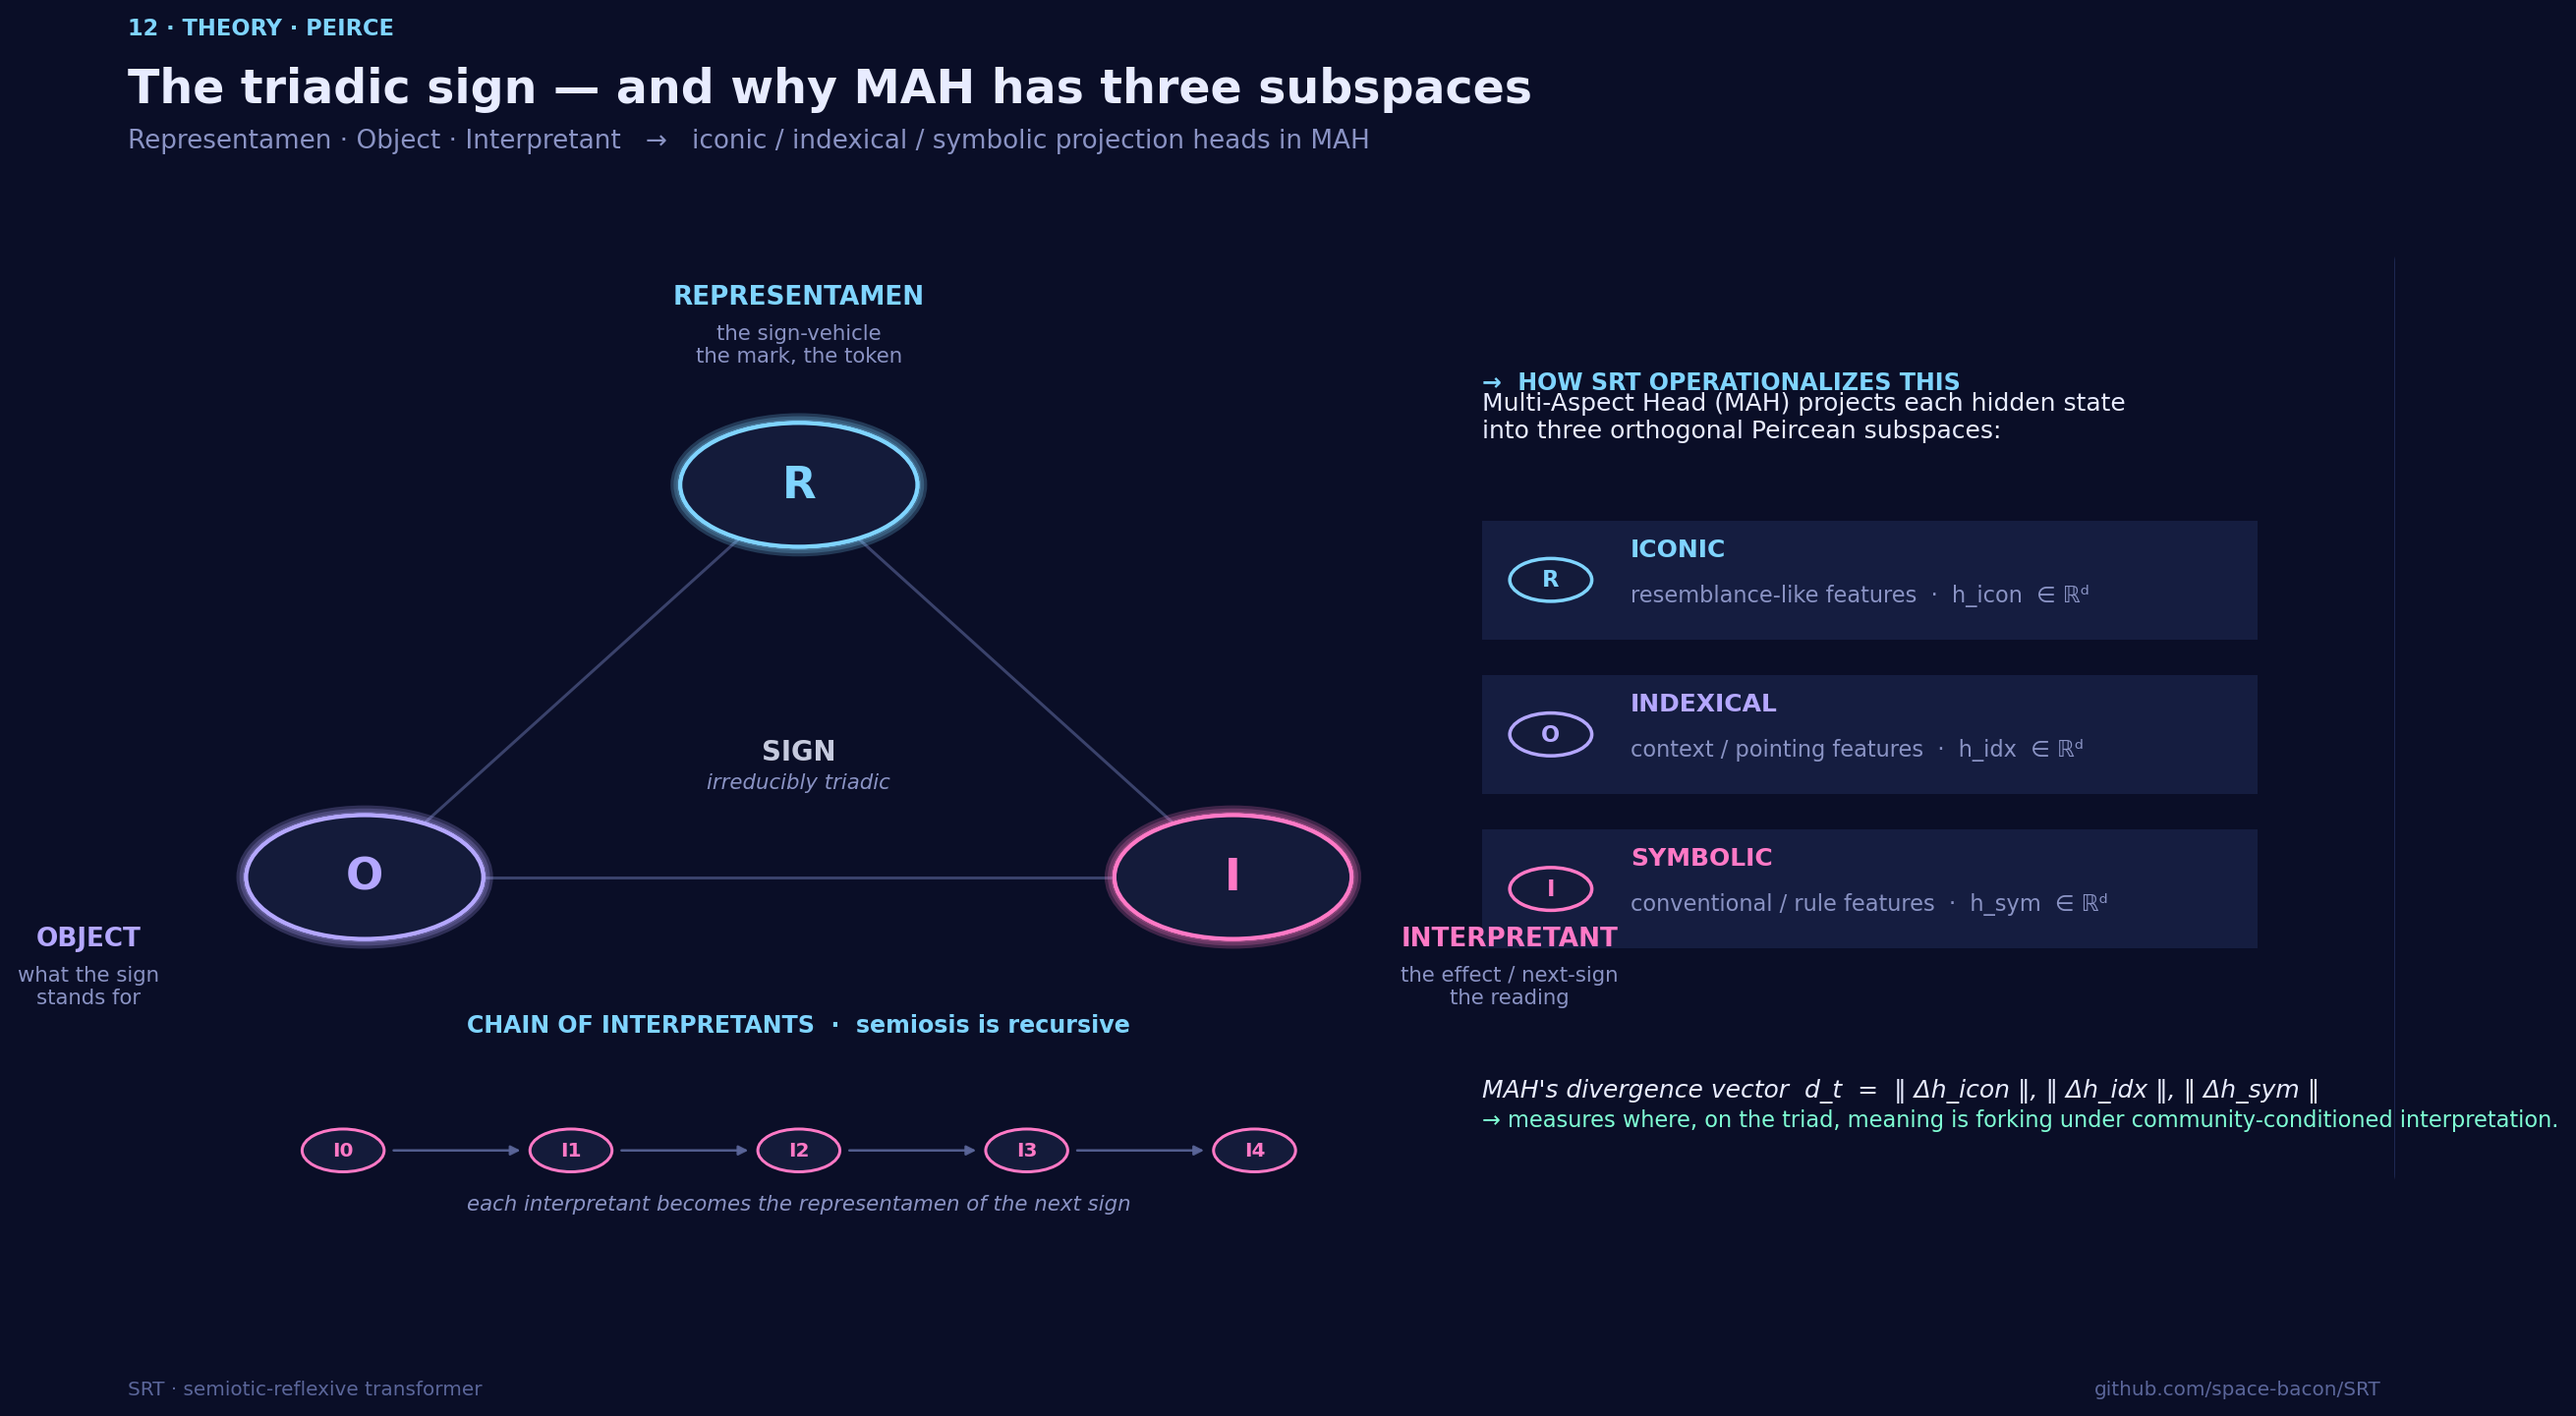
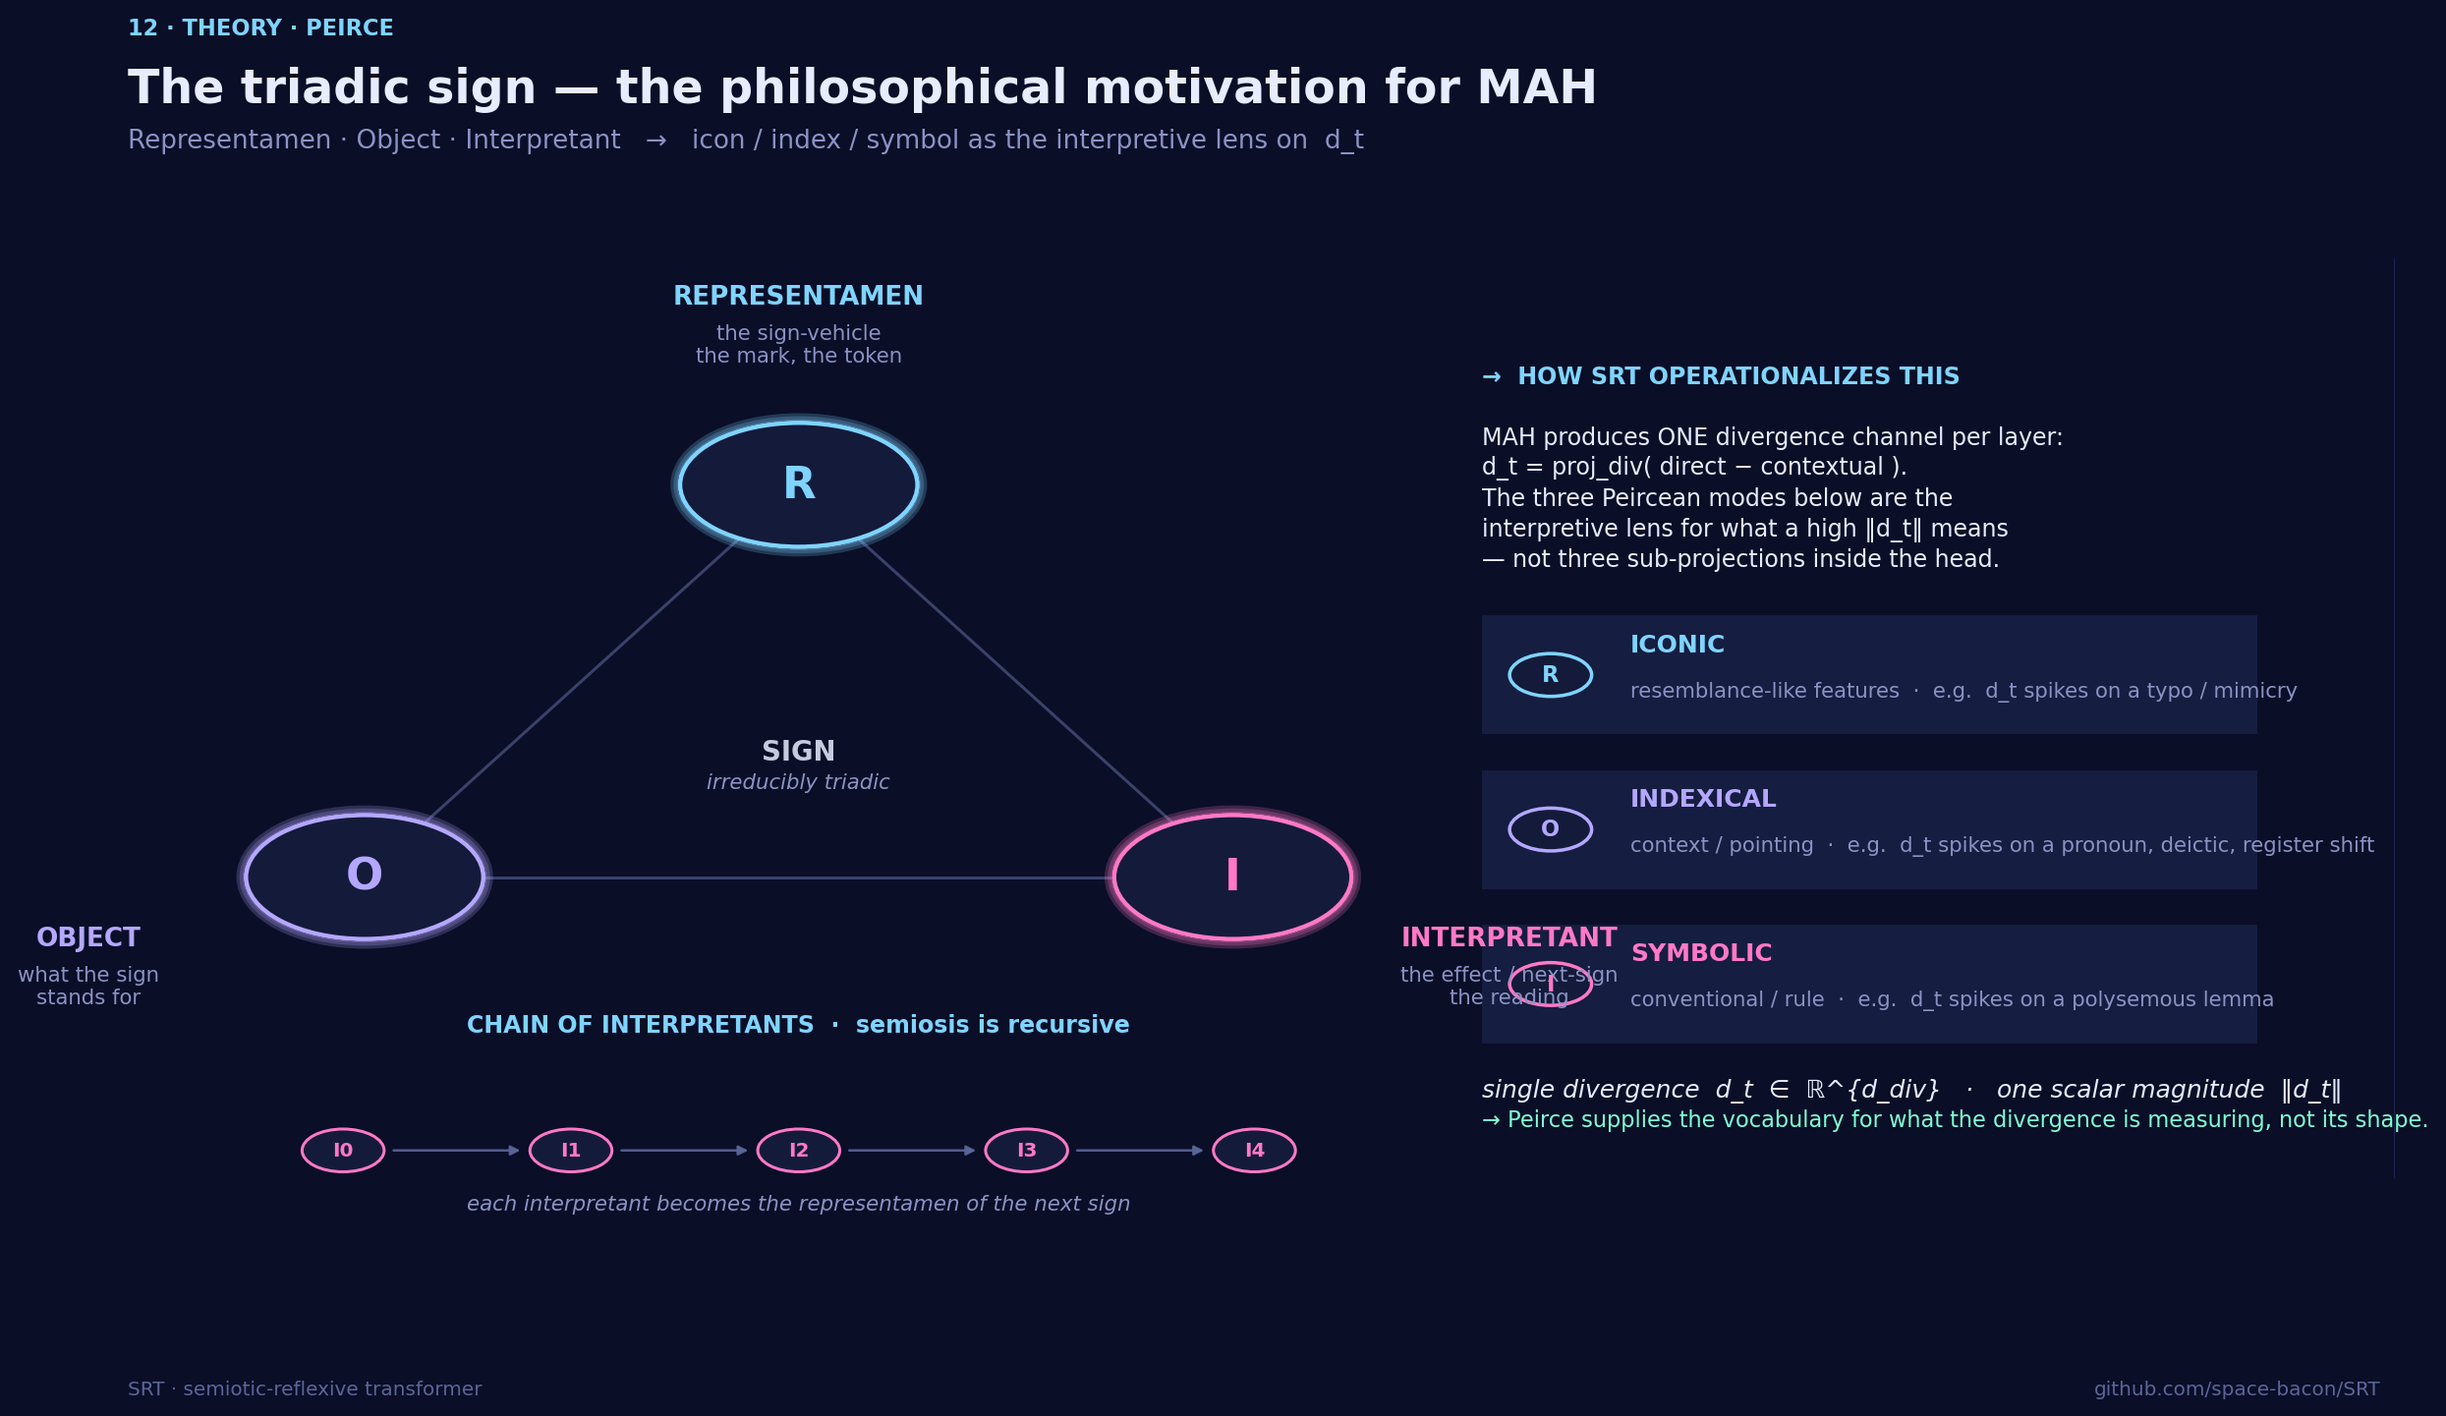
explainers: accuracy fixes — MAH has one divergence channel (not 3 subspaces); r=0.884 is Supabase 5 communities (not Reddit 35); fix paper.md path

diff --git a/scripts/explainers/make_all.py b/scripts/explainers/make_all.py
@@ -1543,9 +1543,9 @@ def fig11_token_trace():
 def fig12_peirce_triad():
     fig = plt.figure(figsize=(14.0, 8.0))
     title_block(fig, "12 · theory · peirce",
-                "The triadic sign — and why MAH has three subspaces",
+                "The triadic sign — the philosophical motivation for MAH",
                 "Representamen · Object · Interpretant   →   "
-                "iconic / indexical / symbolic projection heads in MAH")
+                "icon / index / symbol as the interpretive lens on  d_t")
     ax = fig.add_axes([0.04, 0.06, 0.92, 0.84]); hidden_axes(ax)
 
     # --- Equilateral triangle of the sign ------------------------------------
@@ -1608,21 +1608,24 @@ def fig12_peirce_triad():
     # --- Right panel: mapping into MAH ---------------------------------------
     px, py, pw, ph = 0.58, 0.16, 0.38, 0.68
     add_panel_bg(fig, (px, py, pw, ph), radius=0.018)
-    ax.text(px + 0.02, py + ph - 0.04,
+    ax.text(px + 0.02, py + ph - 0.035,
             "→  HOW SRT OPERATIONALIZES THIS",
             color=CYAN, fontsize=9.5, weight="bold")
-    ax.text(px + 0.02, py + ph - 0.08,
-            "Multi-Aspect Head (MAH) projects each hidden state\n"
-            "into three orthogonal Peircean subspaces:",
-            color=TEXT, fontsize=10)
+    ax.text(px + 0.02, py + ph - 0.07,
+            "MAH produces ONE divergence channel per layer:\n"
+            "d_t = proj_div( direct − contextual ).\n"
+            "The three Peircean modes below are the\n"
+            "interpretive lens for what a high ‖d_t‖ means\n"
+            "— not three sub-projections inside the head.",
+            color=TEXT, fontsize=9.5, linespacing=1.35, va="top")
 
     rows = [
-        ("ICONIC",     "resemblance-like features  ·  h_icon  ∈ ℝᵈ",   CYAN,    "R"),
-        ("INDEXICAL",  "context / pointing features  ·  h_idx  ∈ ℝᵈ",  VIOLET,  "O"),
-        ("SYMBOLIC",   "conventional / rule features  ·  h_sym  ∈ ℝᵈ", MAGENTA, "I"),
+        ("ICONIC",     "resemblance-like features  ·  e.g.  d_t spikes on a typo / mimicry",   CYAN,    "R"),
+        ("INDEXICAL",  "context / pointing  ·  e.g.  d_t spikes on a pronoun, deictic, register shift",  VIOLET,  "O"),
+        ("SYMBOLIC",   "conventional / rule  ·  e.g.  d_t spikes on a polysemous lemma",       MAGENTA, "I"),
     ]
     for i, (name, body, col, vert) in enumerate(rows):
-        ry = py + ph - 0.20 - i * 0.13
+        ry = py + ph - 0.28 - i * 0.13
         ax.add_patch(Rectangle((px + 0.02, ry - 0.05), pw - 0.04, 0.10,
                                fc=PANEL_EDGE, ec="none", alpha=0.55))
         # vertex chip
@@ -1631,14 +1634,14 @@ def fig12_peirce_triad():
                 fontsize=9, weight="bold")
         ax.text(px + 0.085, ry + 0.020, name, color=col,
                 fontsize=10, weight="bold")
-        ax.text(px + 0.085, ry - 0.018, body, color=MUTED, fontsize=9)
+        ax.text(px + 0.085, ry - 0.018, body, color=MUTED, fontsize=8.5)
 
     ax.text(px + 0.02, py + 0.045,
-            "MAH's divergence vector  d_t  =  ‖ Δh_icon ‖, ‖ Δh_idx ‖, ‖ Δh_sym ‖",
+            "single divergence  d_t  ∈  ℝ^{d_div}   ·   one scalar magnitude  ‖d_t‖",
             color=TEXT, fontsize=10, style="italic")
     ax.text(px + 0.02, py + 0.020,
-            "→ measures where, on the triad, meaning is forking under "
-            "community-conditioned interpretation.",
+            "→ Peirce supplies the vocabulary for what the divergence "
+            "is measuring, not its shape.",
             color=MINT, fontsize=9)
 
     footer(fig)
@@ -1703,7 +1706,7 @@ def fig13_silverstein_orders():
             color=CYAN, fontsize=9.5, weight="bold")
 
     rows = [
-        ("1st", CYAN,   "MAH  ·  indexical subspace",
+        ("1st", CYAN,   "MAH  ·  divergence channel  d_t",
          "raw co-occurrence with context window"),
         ("2nd", VIOLET, "RRM  ·  GRU meta-state h_meta",
          "running record of where reads have diverged\n"
@@ -1932,8 +1935,9 @@ def fig15_lancaster_pitchfork():
             color=MUTED, fontsize=9.5, linespacing=1.45, va="top")
 
     ax.text(0.04, 0.06,
-            "On Reddit (35 communities), Pearson r = 0.884\n"
-            "between r̂ and an external polarization metric.",
+            "Stage-2 (Supabase news, 5 communities):\n"
+            "Pearson r = 0.884  between r̂  and an\n"
+            "external polarization metric.",
             color=MINT, fontsize=9, style="italic",
             linespacing=1.5, va="top")
 

diff --git a/docs/EXPLAINERS.md b/docs/EXPLAINERS.md
@@ -394,11 +394,11 @@ made explicit in each figure's right-hand panel.
 
 ![peirce triad](../artifacts/explainers/12_peirce_triad.png)
 
-*A sign is irreducibly three things at once: a representamen (the mark), an object (what it stands for), and an interpretant (the reading it produces). Every interpretant becomes the representamen of the next sign — semiosis is recursive. MAH's three orthogonal projection heads are the operational image of this triad.*
+*A sign is irreducibly three things at once: a representamen (the mark), an object (what it stands for), and an interpretant (the reading it produces). Every interpretant becomes the representamen of the next sign — semiosis is recursive. MAH's divergence channel is the operational image of the representamen → interpretant relation; the three Peircean modes (icon / index / symbol) are the *interpretive lens* through which `d_t` is read, not three separate projections in the code.*
 
-**Caption.** Charles Sanders Peirce's triadic sign (CP 2.228) is the philosophical reason MAH is not a single head but three. Each transformer hidden state is projected into an **iconic** (`h_icon`), **indexical** (`h_idx`), and **symbolic** (`h_sym`) subspace; the divergence vector `d_t` is the per-axis gap between a token's direct and contextual reading, so it tells you *on which Peircean axis* meaning is forking. The chain-of-interpretants strip at the bottom is the recursive structure RRM accumulates.
+**Caption.** Charles Sanders Peirce's triadic sign (CP 2.228) is the philosophical motivation behind MAH. Each MAH layer projects the backbone hidden state into a single interpretant subspace (`interp_proj`), attends causally over the past to obtain a contextual reading, and outputs the **divergence vector** `d_t = proj_div(direct − contextual)` — the gap between how the token reads in isolation and how it reads in context. This is Peirce's interpretant made computational: a sign is read in light of another sign. The chain-of-interpretants strip at the bottom is the recursive structure RRM accumulates by integrating successive `d_t` through its GRU. The icon / index / symbol distinction shown on the figure is the interpretive frame for *what kind of divergence* a high ‖d_t‖ represents at a given token — it is not a three-headed split inside MAH.
 
-**Read this when:** you want to know why "divergence" is a 3-vector rather than a scalar.
+**Read this when:** you want to know why divergence is defined as a gap rather than an activation magnitude.
 
 **Skip if:** you only care about the engineering interface to MAH (`srt/modules/mah.py`).
 
@@ -412,7 +412,7 @@ made explicit in each figure's right-hand panel.
 
 *A 1st-order index is mere co-occurrence (this word tends to show up in that context). A 2nd-order index is the noticing of that co-occurrence ("people who say X are signalling Y"). A 3rd-order index is enregistered ideology built on top. RRM is, by design, the 2nd-order channel.*
 
-**Caption.** Michael Silverstein's indexical-order framework (Silverstein 2003) names three distinct things current LLMs collapse into one. SRT separates them: MAH's indexical subspace handles 1st-order (raw co-occurrence); the RRM's GRU meta-state is the 2nd-order channel — it *notices that signs are being read differently* and writes that back as a correction; the community head plus BEN's `r̂` handles 3rd-order enregistered structure across discourse communities. The mint "reflexive ascent" arrows on the figure are the only direction information flows: lower-order can feed higher-order, not vice versa.
+**Caption.** Michael Silverstein's indexical-order framework (Silverstein 2003) names three distinct things current LLMs collapse into one. SRT separates them across modules (not across MAH sub-heads): MAH's divergence channel exposes 1st-order structure (where a sign's contextual reading drifts from its direct reading — the trace of raw co-occurrence); the RRM's GRU meta-state is the 2nd-order channel — it *notices that signs are being read differently over time* and writes that noticing back into the backbone as a FiLM correction; the community head plus BEN's `r̂` exposes 3rd-order enregistered structure across discourse communities. The mint "reflexive ascent" arrows on the figure are the only direction information flows: lower-order can feed higher-order, not vice versa.
 
 **Read this when:** you want to know what "reflexive" in *Semiotic-Reflexive Transformer* technically means.
 
@@ -444,7 +444,7 @@ made explicit in each figure's right-hand panel.
 
 *Under low community-polarization pressure (μ < 0) a sign has one stable reading. Past a critical μ_c the symmetric solution loses stability and two new attractors appear — the same sign now carries two incompatible meanings simultaneously. BEN's `r̂` is the order parameter of exactly this bifurcation.*
 
-**Caption.** This is the dynamical-systems backbone of the whole program. Lancaster (2025), *The Treachery of Signs: Semiotic Mediation, Pitchfork Bifurcations …* (SSRN 5987495) models discourse-community polarization as a supercritical pitchfork in the normal form `ẋ = μx − x³`. BEN does not learn an arbitrary scalar; it regresses the **signed distance from μ_c** of each token's local discourse, and a binary classifier names the regime. On Reddit (35 communities) this gives Pearson r = 0.884 against an external polarization metric — see [paper.md](../paper.md) for the validation receipts.
+**Caption.** This is the dynamical-systems backbone of the whole program. Lancaster (2025), *The Treachery of Signs: Semiotic Mediation, Pitchfork Bifurcations …* (SSRN 5987495) models discourse-community polarization as a supercritical pitchfork in the normal form `ẋ = μx − x³`. BEN does not learn an arbitrary scalar; it regresses the **signed distance from μ_c** of each token's local discourse and a binary classifier names the regime. The Stage-2 validation of this mapping (Lancaster 2026a) was measured on the Supabase political-news corpus spanning **five political communities (19K articles, 141K Peircean sign annotations), Pearson r = 0.884** against an external polarization metric. The current v8a checkpoint is trained on a different corpus (Reddit, 35 discourse communities); on that corpus the per-passage `r̂` probe is null and the contestedness signal has migrated into the community channel (see [arxiv/paper.md](../arxiv/paper.md) §6.5).
 
 **Read this when:** you want to know what BEN's outputs *mean* in the world, not just in the loss.
 
@@ -476,7 +476,7 @@ made explicit in each figure's right-hand panel.
 
 *Three columns of named threads — SEMIOTICS, DYNAMICS & PHASE, OBSERVER & THERMO — each star is a thread, color-coded to the SRT module it feeds. The bottom band lists the two primary Lancaster SSRN sources for the program.*
 
-**Caption.** A single-page bibliographic map for anyone who wants to trace which SRT module came from which intellectual lineage. The full reference list (with editions, page ranges, and any post-2024 updates) lives in the paper PDF and in [paper.md](../paper.md). Star colors match the figure-wide convention: cyan = read-only / structural, coral = dynamical, mint = observer / thermodynamic.
+**Caption.** A single-page bibliographic map for anyone who wants to trace which SRT module came from which intellectual lineage. The full reference list (with editions, page ranges, and any post-2024 updates) lives in [arxiv/paper.md](../arxiv/paper.md). Star colors match the figure-wide convention: cyan = read-only / structural, coral = dynamical, mint = observer / thermodynamic.
 
 **Read this when:** a reviewer asks "where does X come from?" and you need to point at one panel.
 
